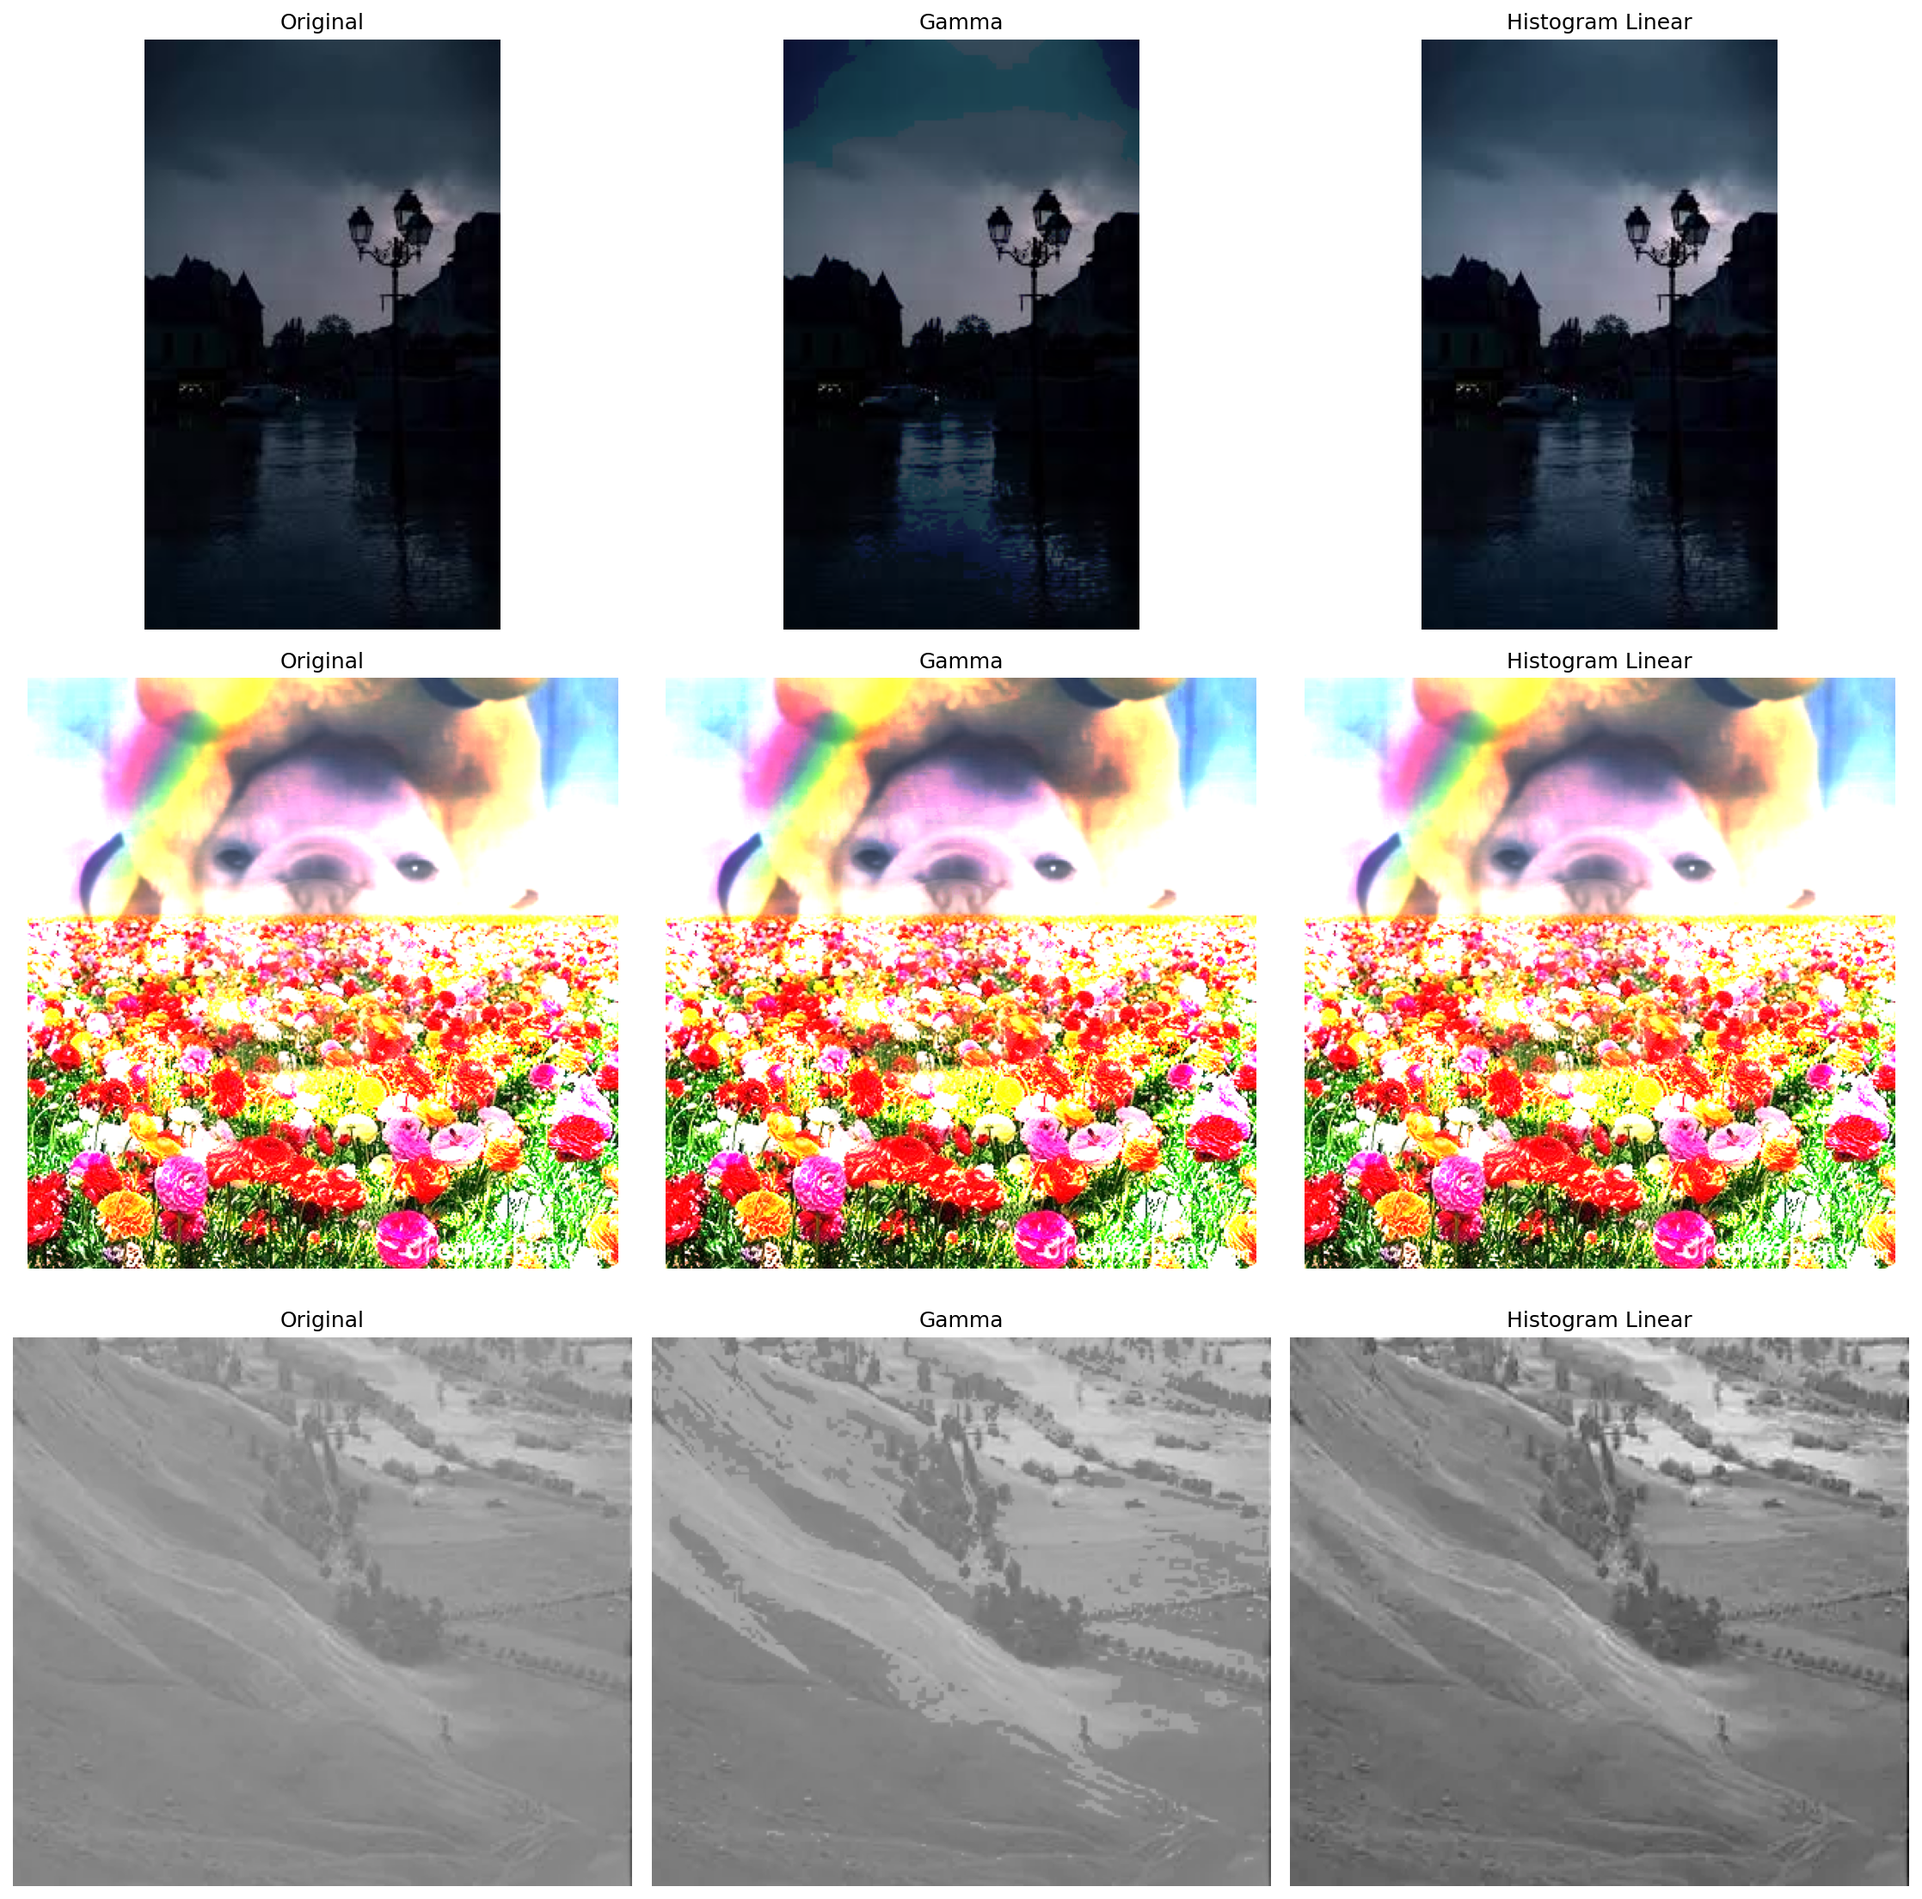
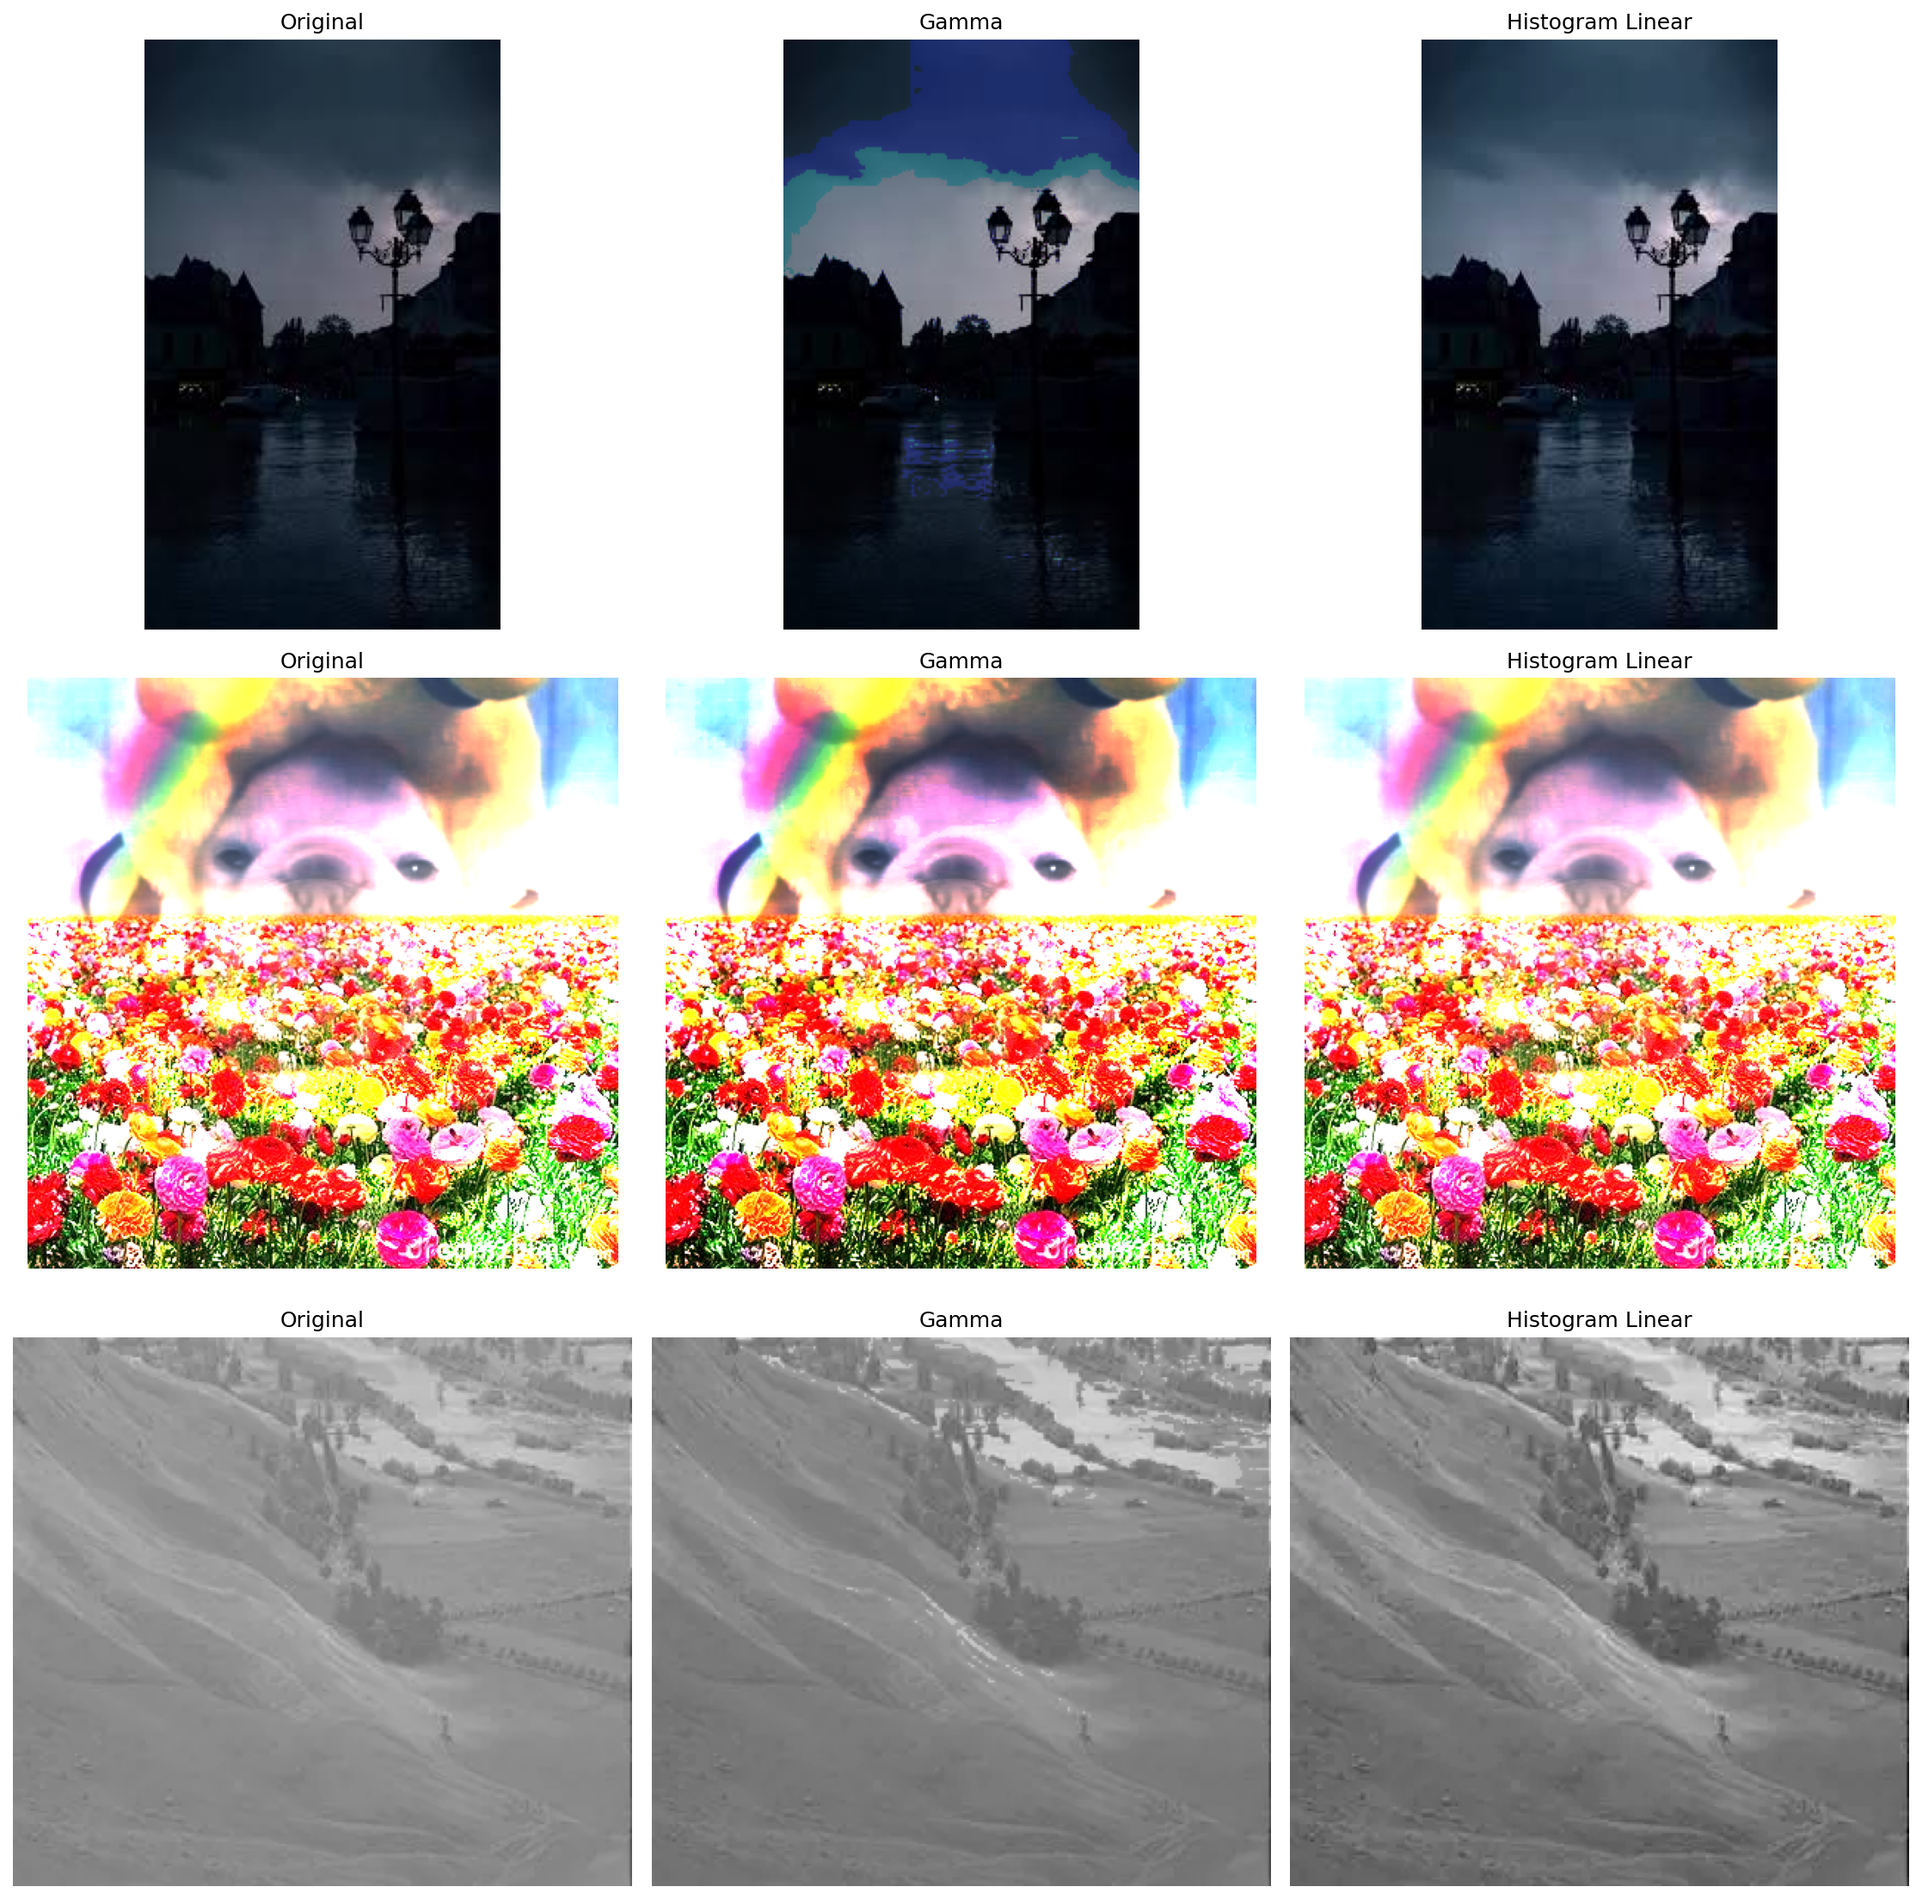
final working

diff --git a/main.py b/main.py
@@ -3,46 +3,25 @@ from PIL import Image
 import matplotlib.pyplot as plt
 import os
 
-"""
-Studentiem jāveic kontrasta korekcija trīs dažādiem krāsainiem attēliem:
-
-    Pārtumšots attēls (maz izteiktas gaismas) - dark.jpg
-
-    Pārgaismots attēls (maz izteiktas ēnas) - overexposed.jpg
-
-    Pelēcīgs attēls (zems kontrasts, maz izteiktas ēnas un gaismas) - low_contrast.jpg
-
-Jāapstrādā ar:
-
-1) Gamma
-    
-2) Histogrammas lineārā pārveidošana
-
-"""
-
 def load_image(path):
     img = Image.open(path).convert("RGBA")
     arr = np.asarray(img).astype(np.float32) / 255.0
     return arr[...,:3]  
 
-def save_image(arr, path):
-    clamped = np.clip(arr, 0.0, 1.0)
-    img = Image.fromarray((clamped * 255.0 + 0.5).astype(np.uint8))
-    img.save(path)
-
-def gamma_correction(image, dark_gamma=1.1, bright_gamma=0.85):
+def gamma_correction(image, dark_gamma=1.1, bright_gamma=0.8):
     C = np.empty_like(image)
-    threshold = np.mean(image)
-    print(threshold)
+    threshold = np.mean(image)+0.1
+    if(threshold>=0.5):
+        dark_gamma +=(np.max(image)-np.min(image))/5
+    else:
+        bright_gamma-=(np.max(image)-np.min(image))/5
     dark_mask = image <= threshold
     bright_mask = image > threshold
     C[bright_mask] = np.power(image[bright_mask], bright_gamma)
     C[dark_mask] = np.power(image[dark_mask], dark_gamma)
-    
     return np.clip(C, 0.0, 1.0) 
 
 def histogram_linear_transformation(image):
-
     g_min = np.min(image)
     g_max = np.max(image)
     if g_max <= g_min:
@@ -57,48 +36,53 @@ def histogram_linear_transformation(image):
     return np.clip(C, 0.0, 1.0) 
 
 def compare(originals, gamma_imgs, linear_imgs, name):
-
-   
     _, axs = plt.subplots(3, 3, figsize=(15, 15))
-   
-    
     for i, (orig, gamma, linear) in enumerate(zip(originals, gamma_imgs, linear_imgs)):
         axs[i, 0].imshow(orig); axs[i, 0].set_title('Original'); axs[i, 0].axis('off')
         axs[i, 1].imshow(gamma); axs[i, 1].set_title('Gamma'); axs[i, 1].axis('off')
         axs[i, 2].imshow(linear); axs[i, 2].set_title('Histogram Linear'); axs[i, 2].axis('off')
-    
     plt.tight_layout()
     filename = f"{name}_all_methods.png"
     plt.savefig(filename, dpi=150, bbox_inches='tight')
     
-
-
+def show_histograms(originals, gamma_imgs, linear_imgs, name):
+    n = len(originals)
+    if n == 0:
+        print("No valid images for histograms")
+        return
+    _, axs = plt.subplots(n, 3, figsize=(15, 5 * n))
+    images_list = [originals, gamma_imgs, linear_imgs]
+    col_titles = ["Original", "Gamma", "Linear"]
+    for i in range(n):
+        for j, imgs in enumerate(images_list):
+            img = imgs[i]
+            hist, bins = np.histogram(img.flatten(), bins=50, range=(0, 1)) 
+            axs[i, j].set_ylabel("Frequency")
+            axs[i, j].plot(bins[:-1], hist, color="black", linewidth=1.5)
+            axs[i, j].fill_between(bins[:-1], hist, alpha=0.3, color="skyblue")
+            axs[i, j].set_title(f"{col_titles[j]} (Image {i+1})")
+            axs[i, j].set_xlabel("Intensity")
+            axs[i, j].grid(True, alpha=0.3)
+    plt.tight_layout()
+    filename = f"{name}_histograms.png"
+    plt.savefig(filename, dpi=150, bbox_inches="tight")
+    plt.close()
+    
 def main(image_paths):
     image_names = ['dark', 'overexposed', 'low_contrast']
-    
     originals, gamma_imgs, linear_imgs = [], [], []
-    
     for i, path in enumerate(image_paths):
-        if not os.path.exists(path): continue
-            
+        if not os.path.exists(path): continue  
         orig = load_image(path)
         name = image_names[i]
-        
         gamma_img = gamma_correction(orig)
         linear_img = histogram_linear_transformation(orig)
-        
-        save_image(gamma_img, f"{name}_gamma.png")
-        save_image(linear_img, f"{name}_linear.png")
-        
         originals.append(orig)
         gamma_imgs.append(gamma_img)
         linear_imgs.append(linear_img)
-    
-  
     compare(originals, gamma_imgs, linear_imgs, "comparisons")
-
+    show_histograms(originals, gamma_imgs, linear_imgs, "comparisons")
 
 if __name__ == "__main__":
-   
     images = ["dark.jpeg", "light.png", "gray.jpg"]
     main(images)
